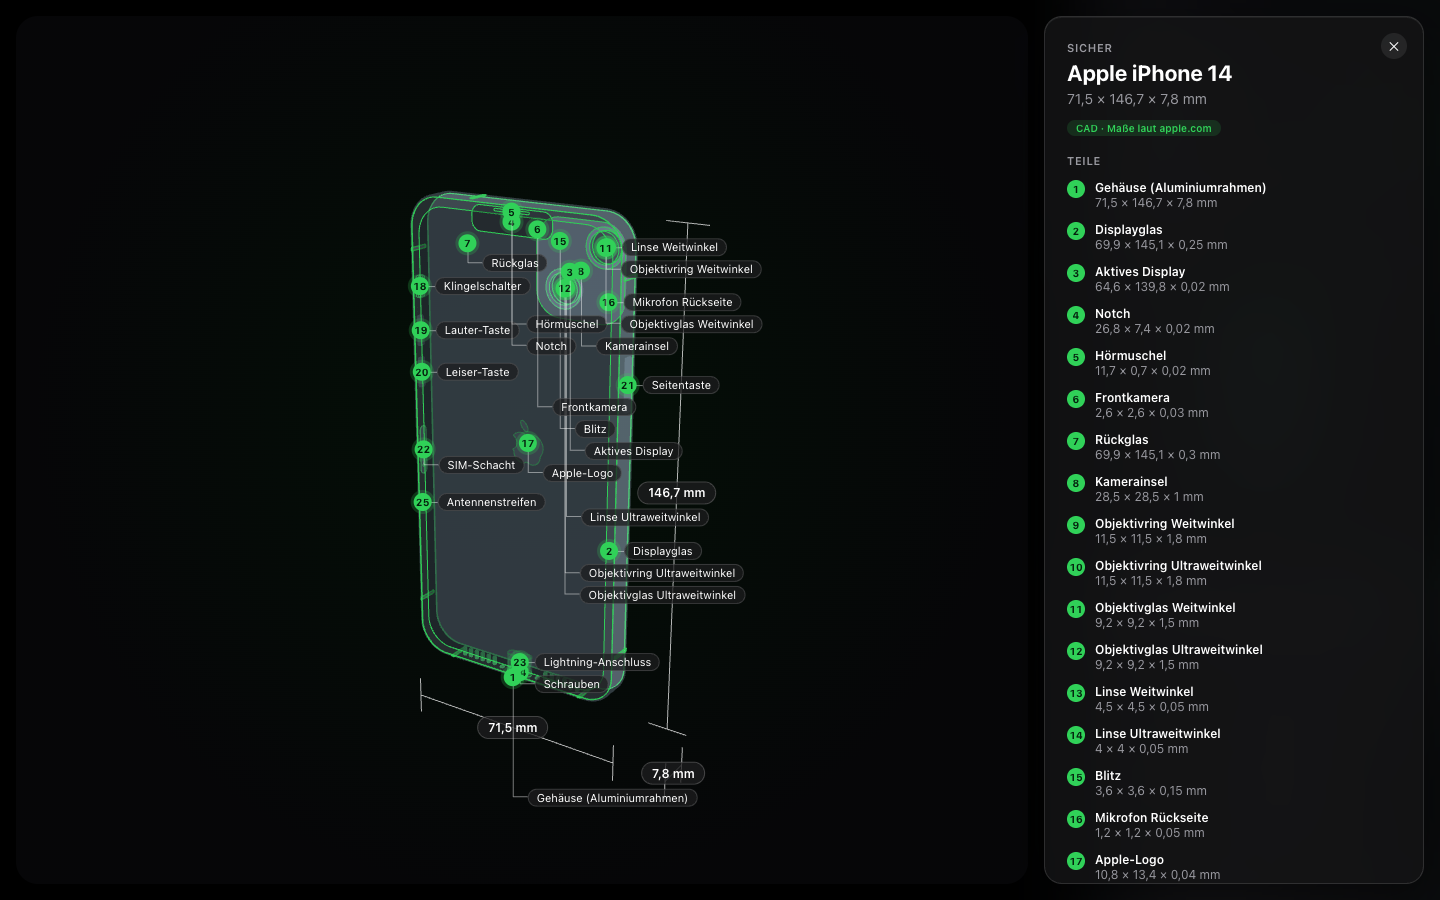
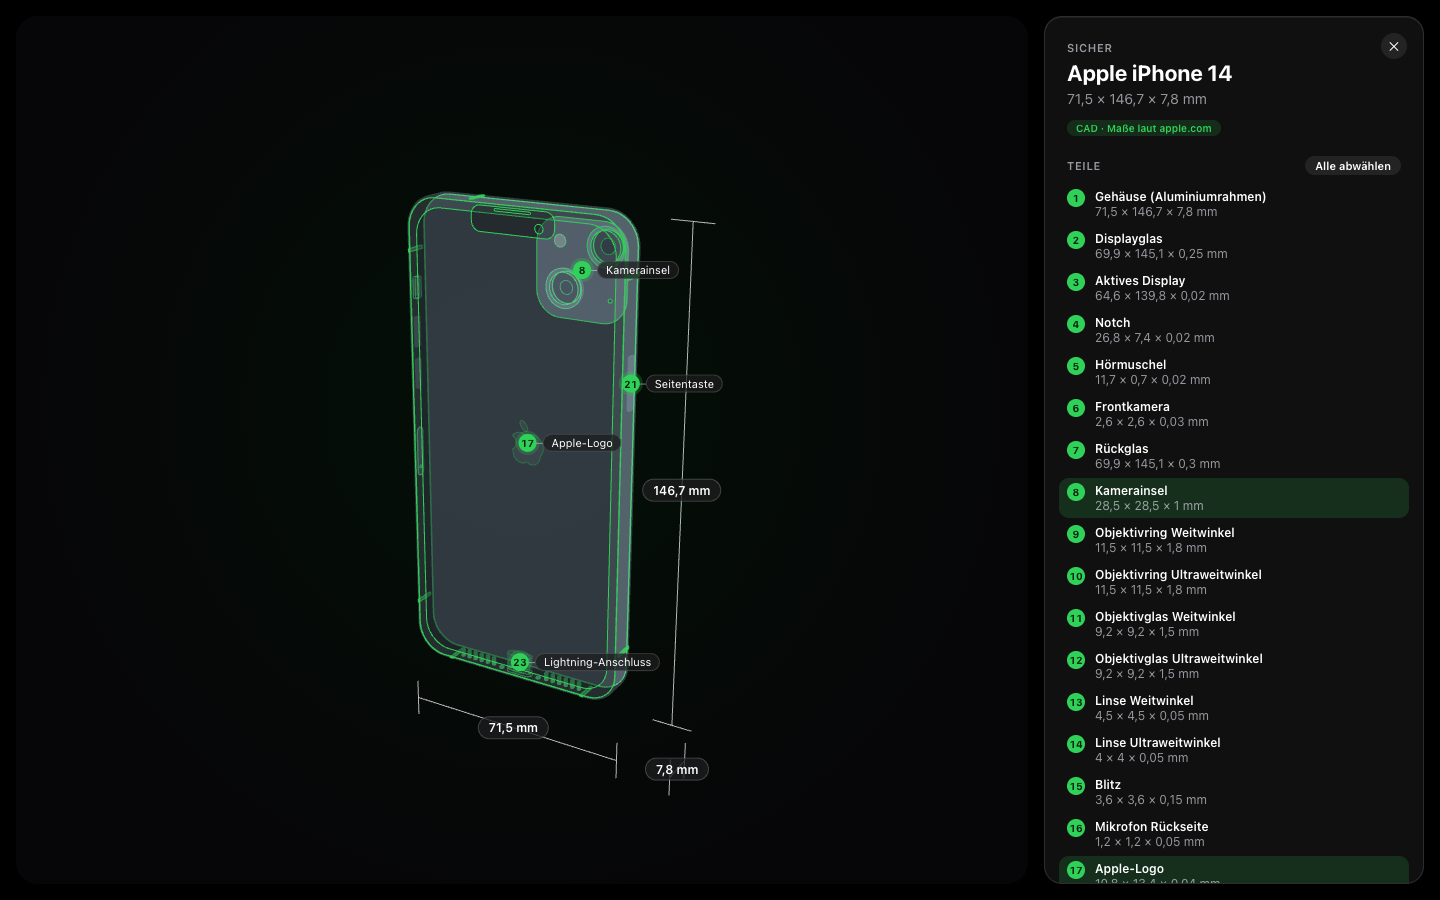
feat: full screen shows a part's tag only when it is chosen in the list
With 25 parts the iPhone 14 drawing was covered in tags. Now the model starts clean, with only the measure lines.
A click on a part in the list puts its numbered tag on the model, one part or several; a second click takes it
away, and "Alle abwählen" clears them all. Every full screen starts without tags. The README picture shows four
chosen parts.

diff --git a/web/src/hud/HologramFullscreen.tsx b/web/src/hud/HologramFullscreen.tsx
@@ -1,6 +1,6 @@
 // The precision model in full screen (sub-projects 5 and 6): the large CAD model with measure lines for width,
-// height and depth and a numbered name tag on every part, next to its parts, the researched dimensions with their
-// sources, and the profile. Esc or ✕ closes it.
+// height and depth, next to its parts, the researched dimensions with their sources, and the profile. A click on a
+// part in the list puts its numbered name tag on the model; "Alle abwählen" takes all of them away. Esc or ✕ closes it.
 
 import { useEffect, useRef } from "react";
 import { createPortal } from "react-dom";
@@ -9,6 +9,7 @@ import { OrbitControls } from "three/examples/jsm/controls/OrbitControls.js";
 import { type CSS2DObject, CSS2DRenderer } from "three/examples/jsm/renderers/CSS2DRenderer.js";
 import { t, type I18nKey } from "../i18n";
 import type { IdentityMsg, Lang, ModelMsg, ProfileMsg } from "../protocol";
+import { useHud } from "../store";
 import { addLabels, loadModel, type Pin } from "./hologramScene";
 import { domain, kindText, sourceTag } from "./modelText";
 import { fitDistance, formatSize, millimetres, partSize, spread, type Vec3 } from "./shapeMath";
@@ -33,6 +34,9 @@ export default function HologramFullscreen({ model, lang, identity, profile, onC
   const canvas = useRef<HTMLCanvasElement>(null);
   const pins = useRef<Pin[]>([]);
   const measures = useRef<CSS2DObject[]>([]);
+  const labelled = useHud((s) => s.labelled);
+  const toggleLabel = useHud((s) => s.toggleLabel);
+  const clearLabels = useHud((s) => s.clearLabels);
 
   useEffect(() => {
     const onKey = (event: KeyboardEvent) => {
@@ -77,25 +81,30 @@ export default function HologramFullscreen({ model, lang, identity, profile, onC
       controls.autoRotate = true;
       controls.autoRotateSpeed = 0.8;
       const anchor = new THREE.Vector3();
-      const place = () => { // name tags keep clear of each other and of every numbered dot
-        const at = pins.current.map(({ object }) => {
+      const show = () => { // only the parts chosen in the list carry their name tag
+        const chosen = useHud.getState().labelled;
+        pins.current.forEach((p, i) => { p.object.visible = chosen.includes(i); });
+      };
+      const place = () => { // the shown name tags keep clear of each other and of every shown numbered dot
+        const shown = pins.current.filter((p) => p.object.visible);
+        const at = shown.map(({ object }) => {
           anchor.setFromMatrixPosition(object.matrixWorld).project(camera);
           return [((anchor.x + 1) / 2) * width, ((1 - anchor.y) / 2) * height];
         });
         const dots = at.map(([x, y]) => ({ x: x - DOT / 2, y: y - DOT / 2, w: DOT, h: DOT }));
-        const tags = at.map(([x, y], i) => ({ x: x + TAG_LEFT, y: y - DOT / 2, w: pins.current[i].tag.offsetWidth,
-          h: DOT }));
+        const tags = at.map(([x, y], i) => ({ x: x + TAG_LEFT, y: y - DOT / 2, w: shown[i].tag.offsetWidth, h: DOT }));
         const labels = measures.current.map((label) => { // the measure capsules, centred on their point
           anchor.setFromMatrixPosition(label.matrixWorld).project(camera);
           const w = label.element.offsetWidth, h = label.element.offsetHeight;
           return { x: ((anchor.x + 1) / 2) * width - w / 2, y: ((1 - anchor.y) / 2) * height - h / 2, w, h };
         });
-        spread(tags, TAG_GAP, [...dots, ...labels]).forEach((down, i) => pins.current[i].move(down));
+        spread(tags, TAG_GAP, [...dots, ...labels]).forEach((down, i) => shown[i].move(down));
       };
       let raf = 0;
       const loop = () => {
         raf = requestAnimationFrame(loop);
         controls.update();
+        show();
         renderer.render(scene, camera);
         labels.render(scene, camera);
         place();
@@ -132,12 +141,20 @@ export default function HologramFullscreen({ model, lang, identity, profile, onC
         <h2 className="fullscreen-name">{identity.display_name}</h2>
         <p className="fullscreen-size">{formatSize(manifest.size_mm, lang)}</p>
         <span className="tag">{sourceTag(manifest, lang)}</span>
-        <div className="card-level section">{t("hologram.parts", lang)}</div>
+        <div className="card-level section parts-head">
+          {t("hologram.parts", lang)}
+          {labelled.length > 0
+            ? <button type="button" className="pill" onClick={clearLabels}>{t("hologram.clear", lang)}</button>
+            : <span>{t("hologram.choose", lang)}</span>}
+        </div>
         <ol className="parts">
           {manifest.parts.map((part, i) => (
-            <li key={`${i}-${part.name}`} onMouseEnter={() => highlight(i)} onMouseLeave={() => highlight(null)}>
-              <span className="part-dot">{i + 1}</span>
-              <span><b>{part.name}</b><small>{formatSize(partSize(part), lang)}</small></span>
+            <li key={`${i}-${part.name}`}>
+              <button type="button" aria-pressed={labelled.includes(i)} onClick={() => toggleLabel(i)}
+                onMouseEnter={() => highlight(i)} onMouseLeave={() => highlight(null)}>
+                <span className="part-dot">{i + 1}</span>
+                <span><b>{part.name}</b><small>{formatSize(partSize(part), lang)}</small></span>
+              </button>
             </li>
           ))}
         </ol>

diff --git a/web/src/store.ts b/web/src/store.ts
@@ -15,6 +15,7 @@ export interface HudState {
   recent: string[]; // card names in the sidebar, newest first
   open: string[]; // sidebar entries opened by hand
   fullscreen: string | null; // the entry whose hologram fills the screen
+  labelled: number[]; // the parts chosen in the full-screen list: only they carry their name tag on the model
   questions: Record<string, QuestionMsg[]>; // spoken questions by entry name, oldest first
   listening: boolean; // the space bar is held: the microphone is open
   micError: string | null;
@@ -38,6 +39,7 @@ export const initialState: HudState = {
   recent: [],
   open: [],
   fullscreen: null,
+  labelled: [],
   questions: {},
   listening: false,
   micError: null,
@@ -132,6 +134,11 @@ export function toggleEntry<S extends Pick<HudState, "open">>(s: S, name: string
   return { ...s, open: s.open.includes(name) ? s.open.filter((n) => n !== name) : [...s.open, name] };
 }
 
+// The full-screen parts list: a click labels a part on the model or takes its label away again, any number at once.
+export function toggleLabel<S extends Pick<HudState, "labelled">>(s: S, part: number): S {
+  return { ...s, labelled: s.labelled.includes(part) ? s.labelled.filter((p) => p !== part) : [...s.labelled, part] };
+}
+
 const NO_QUESTIONS: QuestionMsg[] = [];
 
 // What the full-screen hologram shows: it does not depend on its entry being expanded (you put the object down to
@@ -181,6 +188,8 @@ interface HudActions {
   toggleTelemetry(): void;
   toggleEntry(name: string): void;
   setFullscreen(name: string | null): void;
+  toggleLabel(part: number): void;
+  clearLabels(): void;
   setListening(listening: boolean): void;
   setMicError(error: string | null): void;
   setFlash(text: string | null): void;
@@ -195,7 +204,9 @@ export const useHud = create<HudState & HudActions>()((set) => ({
   toggleMute: () => set((s) => ({ muted: !s.muted })),
   toggleTelemetry: () => set((s) => ({ showTelemetry: !s.showTelemetry })),
   toggleEntry: (name) => set((s) => toggleEntry(s, name)),
-  setFullscreen: (fullscreen) => set({ fullscreen }),
+  setFullscreen: (fullscreen) => set({ fullscreen, labelled: [] }), // every full screen starts without labels
+  toggleLabel: (part) => set((s) => toggleLabel(s, part)),
+  clearLabels: () => set({ labelled: [] }),
   setListening: (listening) => set({ listening }),
   setMicError: (micError) => set({ micError }),
   setFlash: (flash) => set({ flash }),

diff --git a/web/src/store.test.ts b/web/src/store.test.ts
@@ -103,6 +103,25 @@ test("model messages are kept per entry, and the full screen needs a ready model
   expect(applyServerMessage(s, ready("Ding 2")).models["Ding 1"]).toEqual(ready("Ding 1"));
 });
 
+test("full screen: a click on a part labels it on the model, one or several, and the labels go away together",
+  async () => {
+    const { toggleLabel, useHud } = await import("./store");
+    expect(initialState.labelled).toEqual([]); // no labels at first
+    const s = toggleLabel(toggleLabel(toggleLabel(initialState, 3), 0), 7);
+    expect(s.labelled).toEqual([3, 0, 7]);
+    expect(toggleLabel(s, 0).labelled).toEqual([3, 7]); // a second click takes the label away
+    const hud = useHud.getState();
+    hud.setFullscreen("Ding 1");
+    hud.toggleLabel(2);
+    hud.toggleLabel(5);
+    expect(useHud.getState().labelled).toEqual([2, 5]);
+    hud.clearLabels();
+    expect(useHud.getState().labelled).toEqual([]); // the button takes all of them away
+    hud.toggleLabel(1);
+    hud.setFullscreen(null);
+    expect(useHud.getState().labelled).toEqual([]); // the next full screen starts without labels
+  });
+
 describe("the sidebar", () => {
   const named = (trackId: number, name: string, level: "likely" | "unsure" | "certain" | null = "likely") =>
     ({ ...identity(trackId, `Das ist ${name}.`), display_name: name, level });

diff --git a/web/src/styles.css b/web/src/styles.css
@@ -643,19 +643,49 @@ body {
   font-size: 12px;
 }
 
-.parts li {
+.parts-head {
+  display: flex;
+  align-items: center;
+  justify-content: space-between;
+  gap: 12px;
+  min-height: 22px;
+}
+
+.parts-head span {
+  font-weight: 400;
+  letter-spacing: 0;
+}
+
+.parts-head .pill {
+  padding: 3px 10px;
+  font-size: 11px;
+  letter-spacing: 0;
+}
+
+.parts button {
   display: grid;
   grid-template-columns: 18px 1fr;
   gap: 10px;
   align-items: start;
+  width: calc(100% + 16px);
   margin: 0 -8px;
   padding: 5px 8px;
+  border: 0;
   border-radius: 10px;
+  background: none;
+  color: inherit;
+  font: inherit;
+  text-align: left;
+  cursor: pointer;
   transition: background 150ms var(--ease);
 }
 
-.parts li:hover {
+.parts button:hover {
   background: var(--fill);
+}
+
+.parts button[aria-pressed="true"] {
+  background: rgba(48, 209, 88, 0.16);
 }
 
 .parts b {

diff --git a/web/src/i18n.ts b/web/src/i18n.ts
@@ -48,6 +48,8 @@ const TEXTS = {
   "model.rebuild": { de: "Neu bauen", en: "Build again" },
   "hologram.full": { de: "Vollbild", en: "Full screen" },
   "hologram.parts": { de: "TEILE", en: "PARTS" },
+  "hologram.choose": { de: "Zum Beschriften anklicken", en: "Click to label" },
+  "hologram.clear": { de: "Alle abwählen", en: "Clear all" },
   close: { de: "Schließen", en: "Close" },
   "tel.fpsVideo": { de: "Video", en: "Video" },
   "tel.fpsProcessed": { de: "Verarbeitet", en: "Processed" },

diff --git a/ERKLAERUNG.md b/ERKLAERUNG.md
@@ -98,7 +98,8 @@ Genau das unterscheidet ein durchdachtes AI-Produkt von einem einzelnen API-Aufr
 7. **Ab „wahrscheinlich“** erscheint der Steckbrief.
 8. **Ab „sicher“** entsteht das Präzisionsmodell (Teilprojekt 6). Der Eintrag zeigt, was gerade passiert („Recherchiere
    Maße …“, „Baue CAD-Modell …“). Danach dreht sich das CAD-Modell im Eintrag. „⤢“ öffnet es im Vollbild: mit
-   Maßlinien, einem nummerierten Schild an jedem Teil und den recherchierten Maßen samt Quelle.
+   Maßlinien und den recherchierten Maßen samt Quelle. Klickst du rechts ein Teil an, bekommt es sein nummeriertes
+   Schild im Modell.
 9. **Fragen.** Du hältst die Leertaste, fragst („Wie schwer ist das?“) und lässt los. Die Antwort steht im Eintrag und
    wird vorgelesen.
 
@@ -514,8 +515,12 @@ dem deine Entscheidungen stehen.
 - **Apple-Glas:** Dunkle, halbdurchsichtige Flächen mit Weichzeichner dahinter (`backdrop-filter: blur(30px)`) und
   haarfeinen Kanten. Die Farben sind Apples Systemfarben: Grün #30D158 für dein Objekt, Cyan #64D2FF für Hände,
   Violett #BF5AF2 für den Hintergrund. Alles steht in `web/src/styles.css`.
-- **Vollbild:** Maßlinien für Breite, Höhe und Tiefe in mm und ein nummeriertes Namensschild an jedem Teil. Rechts
-  stehen die Teileliste mit Form und Maßen, der Steckbrief und das Wissenswerte.
+- **Vollbild:** Maßlinien für Breite, Höhe und Tiefe in mm. Rechts stehen die Teileliste mit Form und Maßen, der
+  Steckbrief und das Wissenswerte.
+  - Ein Teil bekommt sein nummeriertes Namensschild im Modell erst, wenn du es in der Liste anklickst. Eins oder
+    mehrere, ein zweiter Klick nimmt das Schild wieder weg, und „Alle abwählen“ nimmt alle weg. Vorher hatte das
+    iPhone alle 25 Schilder gleichzeitig, und vom Modell war kaum noch etwas zu sehen.
+  - Die Auswahl liegt im Store (`labelled`). Jedes neue Vollbild startet ohne Schilder.
   - Schilder, die sich verdecken würden, rutschen nach unten, und eine dünne Linie führt zurück zum Teil (Funktion
     `spread` in `shapeMath.ts`, Übung 9).
   - Das Vollbild bleibt offen, auch wenn du den Gegenstand weglegst, denn sein Zustand liegt im Store, nicht im
@@ -696,8 +701,8 @@ Passt zu Phase 3 deines Lehrplans.
 - **Was:** Alles, was der Browser weiß, liegt an einer Stelle (`useHud` in `store.ts`): Tracks, Erkennungen,
   Steckbriefe, Formen, Einträge, Fragen und Einstellungen.
 - **Wie:** Neue Server-Nachrichten verarbeitet die *reine Funktion* `applyServerMessage(state, message)`: alter
-  Zustand plus Nachricht ergibt neuen Zustand. Genauso funktionieren `sidebarEntries`, `askTarget`, `fullscreenView`
-  und `pickable`.
+  Zustand plus Nachricht ergibt neuen Zustand. Genauso funktionieren `sidebarEntries`, `askTarget`, `fullscreenView`,
+  `toggleLabel` und `pickable`.
 - **Warum:** Reine Funktionen lassen sich ohne Browser testen: Eingabe rein, Ergebnis prüfen. Die meisten
   Browser-Tests (`store.test.ts`) machen genau das.
 
@@ -713,8 +718,10 @@ schwarze Ränder hat und gespiegelt sein kann.
 - **Die Teile:** Jedes CAD-Teil kommt als STL-Datei vom Server (`/models/<produkt>/part-01.stl`, geladen mit
   `STLLoader`) und wird ein *Mesh* (Form + Material). Die Kanten liefert `EdgesGeometry`, die nur Kanten mit mehr als
   20° Knick zeigt. So bleiben die fein unterteilten Rundungen ruhig, und nur echte Kanten leuchten.
-- **Namensschilder:** Jedes Teil bekommt einen nummerierten Punkt in seiner Mitte. Große Schalen (Rahmen, Display,
+- **Namensschilder:** Jedes Teil hat einen nummerierten Punkt in seiner Mitte. Große Schalen (Rahmen, Display,
   Rückglas) setzen ihren Punkt verteilt auf den Rand (`rimPoint`), damit nicht alle Schilder an einer Stelle beginnen.
+  Zu sehen ist ein Schild nur, wenn sein Teil in der Liste gewählt ist: Die Render-Schleife setzt dafür in jedem Bild
+  `visible` am Schild (Funktion `show` in `HologramFullscreen.tsx`).
 - **Steuerung:** `OrbitControls` erlaubt Drehen mit der Maus und dreht sonst langsam von selbst. Im Vollbild kommt Zoom
   dazu.
 - **Beschriftungen:** `CSS2DRenderer` setzt normale HTML-Elemente (die Maß-Kapseln und Namensschilder) an 3D-Punkte.
@@ -959,6 +966,8 @@ Format wie „Verstandene Fehler“ in deinem Lehrplan. Jeder dieser Fehler ist 
 17. **Überlappende Teilenamen**
     - Symptom: An der Kamerainsel lagen vier Namen übereinander.
     - Lösung: nummerierte Punkte, und die Schilder weichen nach unten aus (`spread`).
+    - Später zeigte das iPhone alle 25 Schilder auf einmal, und die Skizze war zu voll. Jetzt stehen nur die Schilder
+      der Teile im Modell, die du in der Liste anklickst.
 18. **Das Vollbild verschwand**
     - Symptom: Beim Weglegen des Gegenstands klappte der Eintrag zu und nahm das Vollbild mit.
     - Lösung: Der Vollbild-Zustand liegt im Store, nicht im Eintrag.

diff --git a/README.md b/README.md
@@ -5,8 +5,8 @@ sure it is what it is, researches its exact dimensions and builds a CAD model of
 out loud.
 
 ![The precision model of an Apple iPhone 14 in full screen: a CAD model built from Apple's dimensional drawing, with
-measure lines for width, height and depth and a numbered tag on every part, next to the parts list with their
-sizes](docs/media/hologram-fullscreen.png)
+measure lines for width, height and depth and numbered tags on four parts chosen in the parts list beside
+it](docs/media/hologram-fullscreen.png)
 
 <img src="docs/media/sidebar.png" width="360" align="right" alt="The sidebar entry of the iPhone 14: certain, the
 evidence, the precision model with the source of its dimensions, and the profile">
@@ -50,8 +50,9 @@ The project was built in six sub-projects, each with its own design document:
      such as a price, and then names its sources.
    - The answer is read aloud.
 5. **Polish.** The interface is dark Apple glass.
-   - "⤢" on the model opens it in full screen, with measure lines for width, height and depth and a numbered tag on
-     every part. The parts list, the dimensions with their sources, the profile and the trivia sit beside it.
+   - "⤢" on the model opens it in full screen, with measure lines for width, height and depth. The parts list, the
+     dimensions with their sources, the profile and the trivia sit beside it. Click a part in the list to put its
+     numbered tag on the model, one part or several; one button clears them all.
    - You can start the whole program with a double-click.
 6. **Precision model.** Once an object is *certain*, the model is built from sources instead of from memory.
    - **Research:** Claude searches the manufacturer's data sheets and technical drawings. Every dimension keeps its
